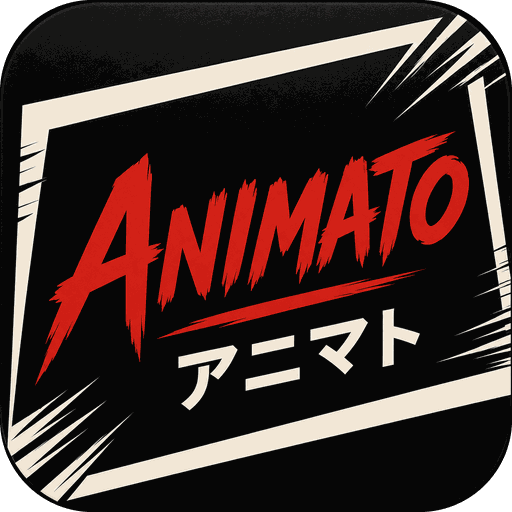
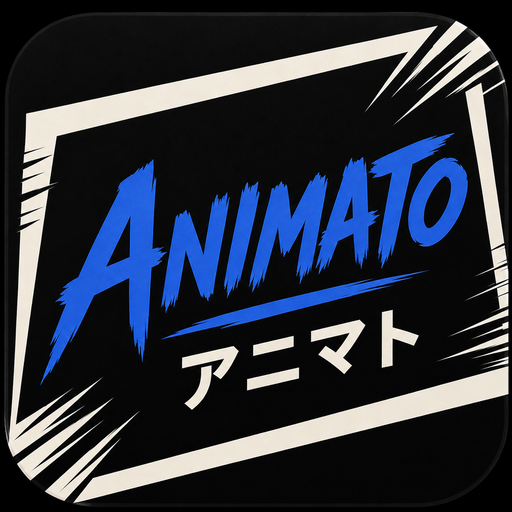
Make the README about the app
It opened with the migration: which fork descends from what, how many files
conflict on a merge, why Aniyomi could not sync. That is the reason the code is
shaped the way it is, and it belongs in ARCHITECTURE.md, where it already is —
someone arriving at the repository wants to know what the app does.

So: what it is, what it does, how to build it. The one line about Mihon that
stays is the one credit and the licence require.

The brand icons were still the red artwork; both are the blue ones the app
actually ships, and the status badge follows the accent.

diff --git a/README.md b/README.md
@@ -6,38 +6,47 @@
 
 ### Your anime & manga universe, unified.
 
-One library for both. Built **on top of** [Mihon](https://github.com/mihonapp/mihon) rather than
-forked from it, so every upstream release is a merge instead of a rewrite.
+One app, one library, both kinds of story.
 
 [![License: Apache-2.0](https://img.shields.io/badge/license-Apache--2.0-blue?labelColor=27303D)](/LICENSE)
-![Status: pre-release](https://img.shields.io/badge/status-pre--release-E5392F?labelColor=27303D)
+![Status: pre-release](https://img.shields.io/badge/status-pre--release-4169A1?labelColor=27303D)
 
 </div>
 
 ---
 
-> **Not released yet.** There is no installable build, and the database schema is not frozen.
-> Animato does **not** upgrade in place over an existing Aniyomi install — migration is by backup
-> import. See [ARCHITECTURE.md](ARCHITECTURE.md#why-users-must-not-upgrade-in-place-from-aniyomi).
+> **Not released yet.** There is no stable build, and the database schema is not frozen.
+> Animato does **not** upgrade in place over an existing Aniyomi install — bring your library
+> across with a backup import. See
+> [ARCHITECTURE.md](ARCHITECTURE.md#why-users-must-not-upgrade-in-place-from-aniyomi).
 
 ## What it is
 
-Mihon reads manga. Aniyomi added anime to it, and then went two years without an upstream sync,
-because a fork that edits 248 upstream files cannot merge one.
+A reader and a player in one place. Animato keeps anime and manga in a single library, with one
+set of categories, one search, one download queue and one place to pick up where you left off —
+instead of asking you to decide which app you are in before you have decided what you want to
+watch or read.
 
-Animato takes the anime half and rebuilds it as modules **beside** Mihon instead of inside it.
-Mihon's `:app` is consumed as an Android library; our application module supplies the identity, the
-theme and the anime side, and never opens a Mihon file.
+Content comes from extensions you install and configure yourself. Animato ships none of it.
 
-The measurement that drives the whole design — merging the same upstream into the same repository:
+## What it does
 
-| Branch | Descends from | Conflicting files |
-| --- | --- | --- |
-| Aniyomi-descended | Aniyomi, forked Jan 2024 | **776** |
-| this one | Mihon `77e88a21` | **2** |
+- **One library.** Series and shows in the same grid, filtered and sorted together, or apart when
+  you want them apart.
+- **One-tap continuation.** The first screen is the next chapter and the next episode, whichever
+  you touched last.
+- **Search across sources.** Search once and see what every installed source has, without knowing
+  in advance which one carries it.
+- **Downloads that stay readable.** The queue groups by title and range rather than listing every
+  chapter, so a hundred queued items still fits on a screen.
+- **Tracking inside the title.** AniList, MyAnimeList and Kitsu, where you are already looking.
+- **A reader and a player built for the content.** Chrome that disappears when it is not wanted;
+  gestures, playback speed, subtitles and external-player handoff on the anime side.
+- **Backup and restore**, including import from Tachiyomi, Mihon and Aniyomi backups with source
+  matching.
 
-Upstream breakage arrives as compile errors in files we own — a short, specific list — rather than
-as a merge conflict in files we do not.
+Not all of that is wired up yet — this is a pre-release, and
+[ARCHITECTURE.md](ARCHITECTURE.md) tracks what is built and what is not.
 
 ## Design
 
@@ -59,16 +68,15 @@ Android 8.0 (API 26).
 
 | | |
 | --- | --- |
-| [ARCHITECTURE.md](ARCHITECTURE.md) | the layering, the rule about never editing Mihon, migration phases |
+| [ARCHITECTURE.md](ARCHITECTURE.md) | how the app is put together, and what is built so far |
 | [docs/BRANDING.md](docs/BRANDING.md) | brand and interface specification |
-| [UPSTREAM_DIVERGENCE.md](UPSTREAM_DIVERGENCE.md) | what Mihon changed under us, and whether to adopt it |
+| [UPSTREAM_DIVERGENCE.md](UPSTREAM_DIVERGENCE.md) | where Animato differs from the code it builds on |
 
 ## Credit
 
 Animato is built on the work of others, and depends on that work continuing:
 
-- **[Mihon](https://github.com/mihonapp/mihon)** — the manga app this is built on, and the upstream
-  it tracks. Apache-2.0.
+- **[Mihon](https://github.com/mihonapp/mihon)** — the manga app Animato is built on. Apache-2.0.
 - **[Aniyomi](https://github.com/aniyomiorg/aniyomi)** — the origin of the anime half. Apache-2.0.
 - **[Tachiyomi](https://github.com/tachiyomiorg)** — where both began.
 
